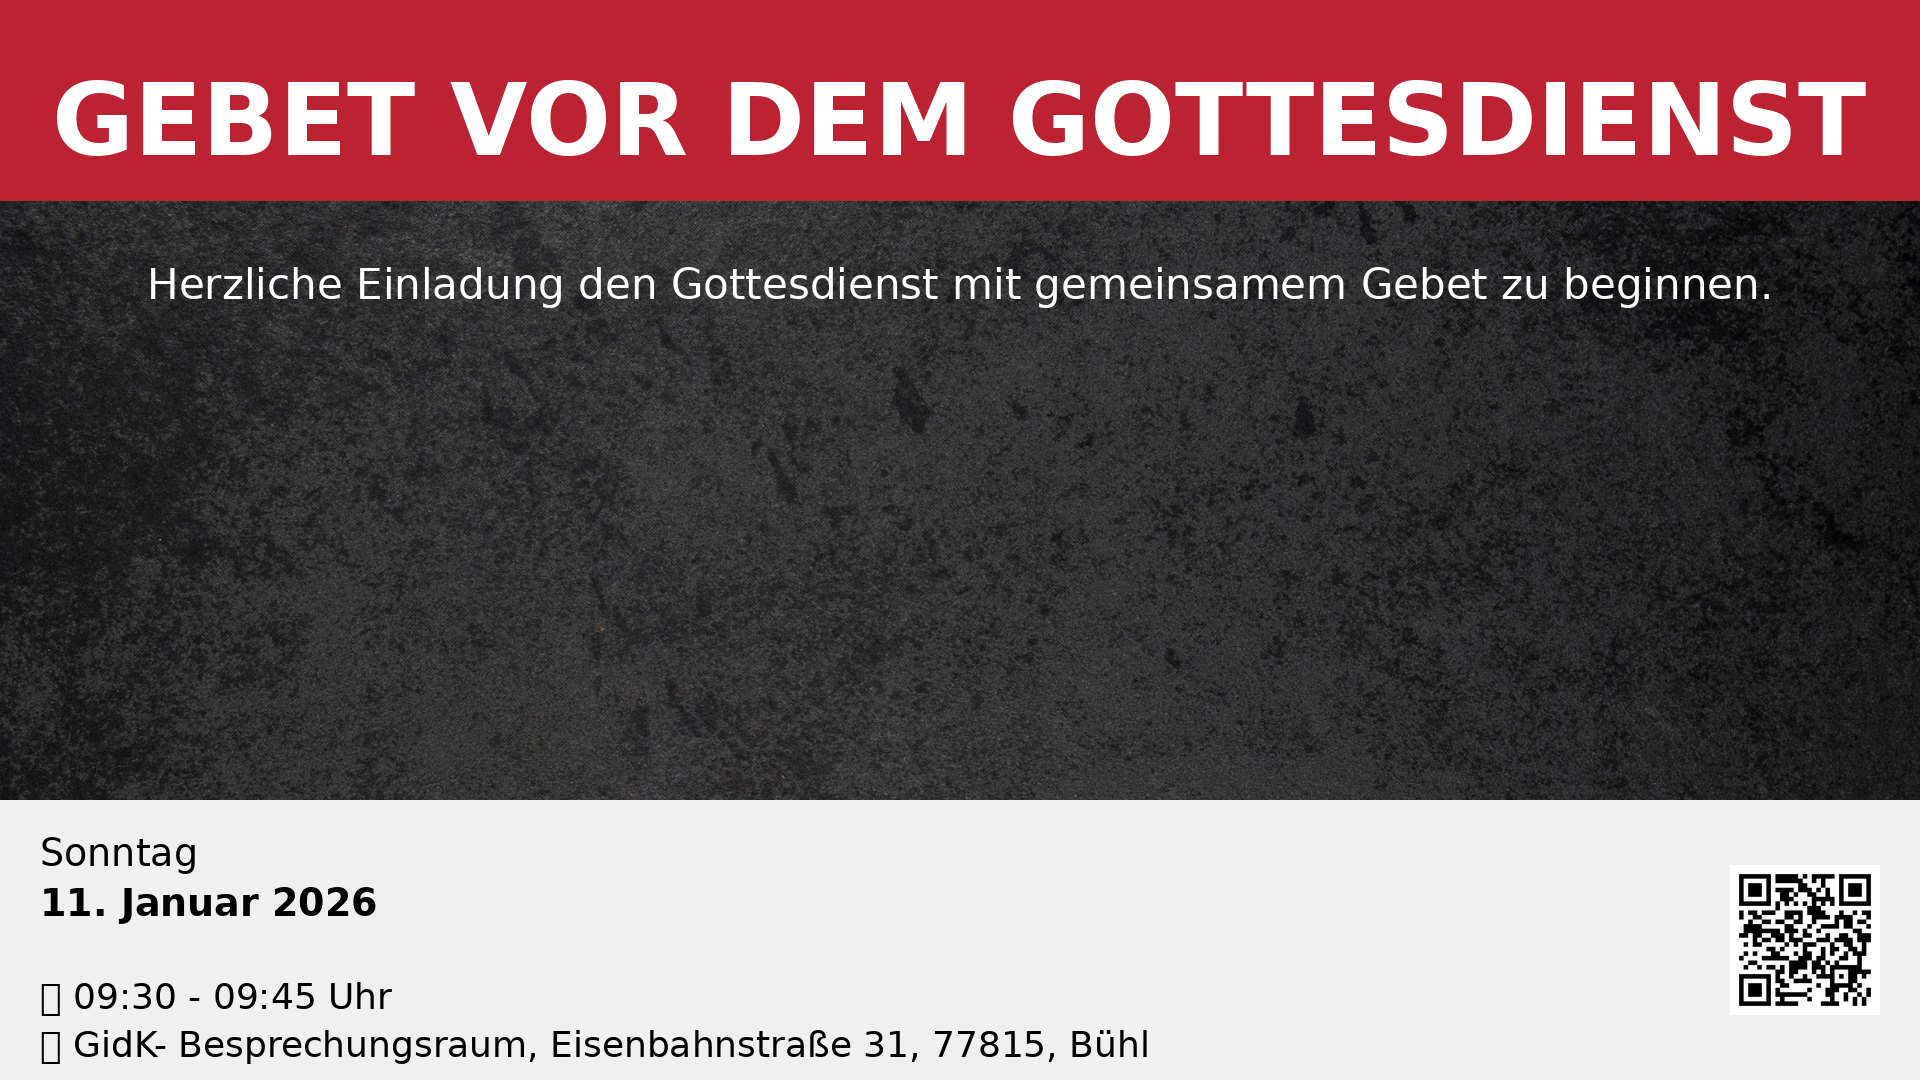
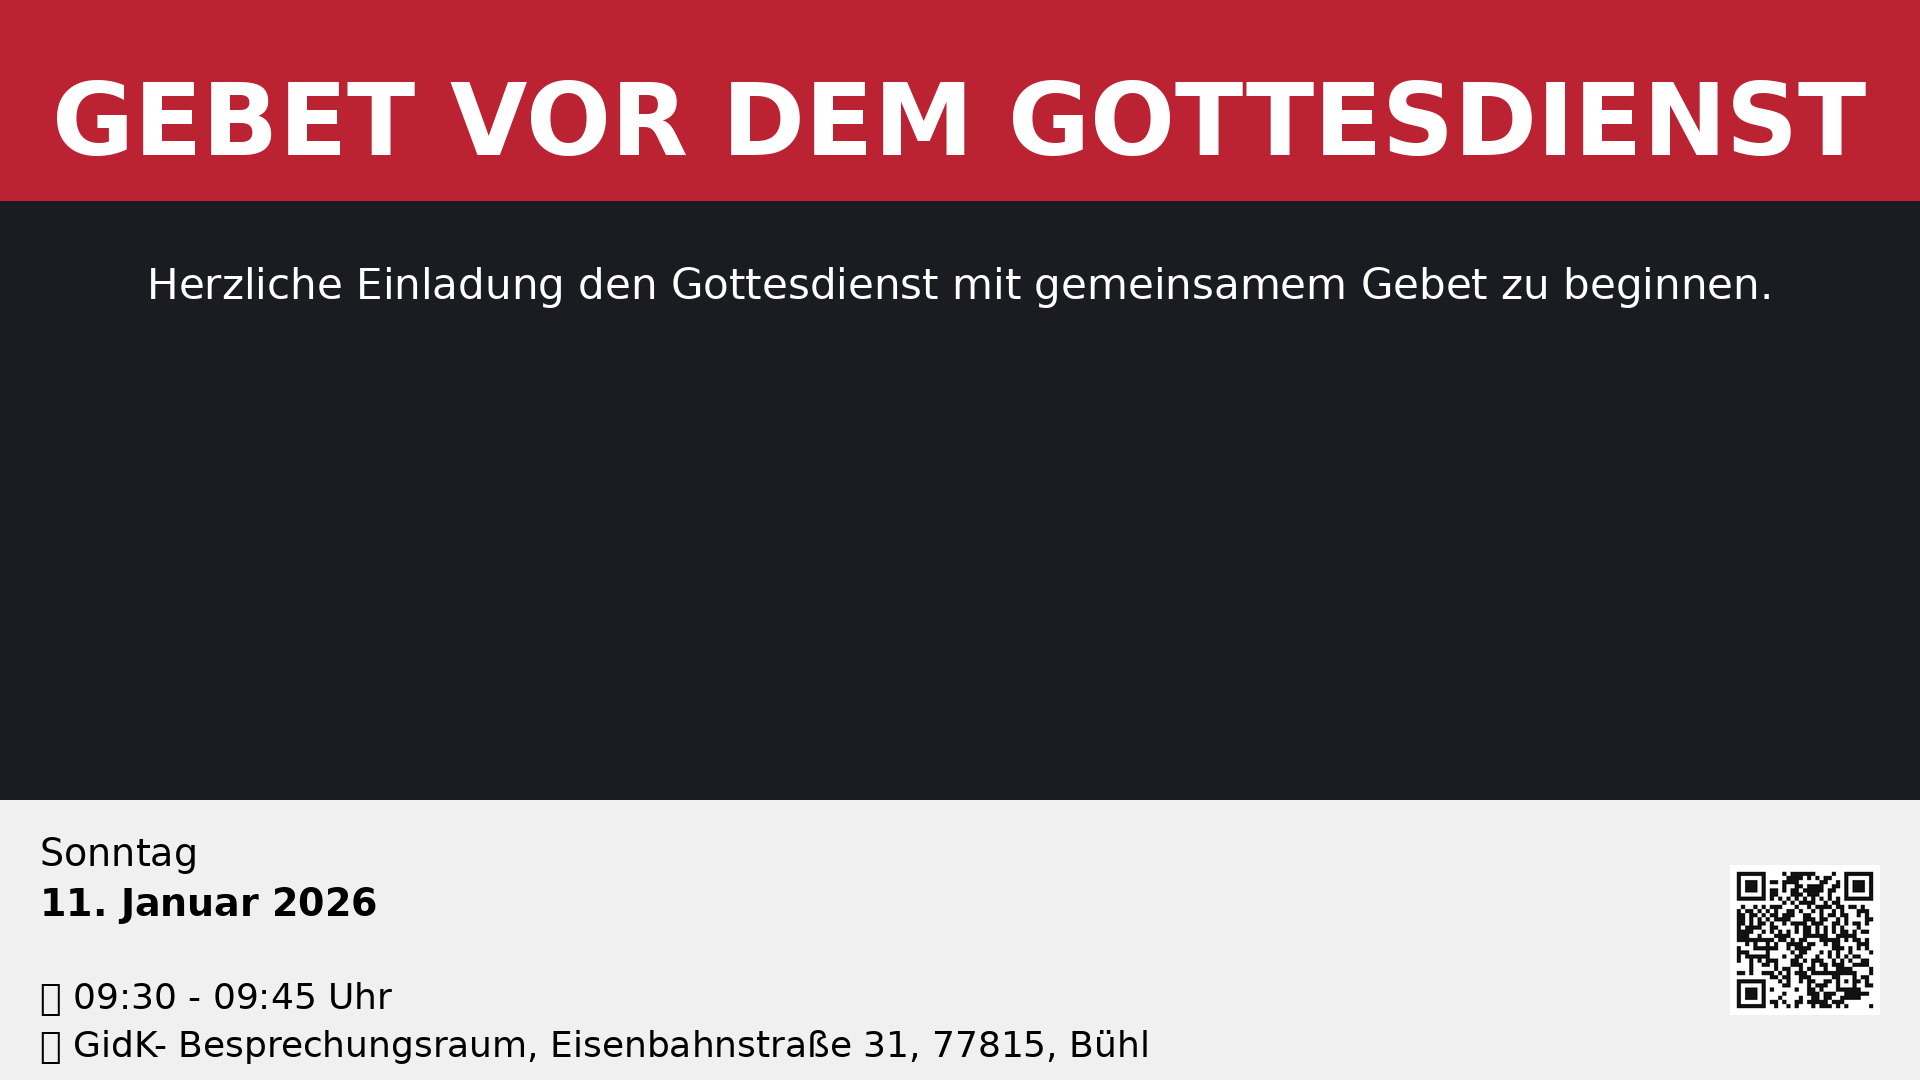
🎨 QR-Code-Integration: QR_Folien.jpg implementiert
✨ Änderungen:
- QR_Folien.jpg als primärer QR-Code verwenden
- Generator lädt QR_Folien.jpg vom Repository-Root
- 3-stufiger Fallback: QR_Folien.jpg → URL → Generieren

📦 Anpassungen:
- Config.QR_CODE_LOCAL = "QR_Folien.jpg" hinzugefügt
- _load_qr_code() Priorität geändert (lokal zuerst)
- Alle 21 Folien mit korrektem QR-Code regeneriert

🔧 Verbesserungen:
- QR-Code wird priorisiert lokal geladen (schneller)
- Kein assets/ Verzeichnis mehr benötigt
- QR_Folien.jpg im Repository-Root

diff --git a/src/generator.py b/src/generator.py
@@ -36,6 +36,7 @@ class Config:
     # Assets
     HINTERGRUND_URL = "https://storage2.snappages.site/S74RKH/assets/files/hintergrund_Termine.jpg"
     QR_CODE_URL = "https://storage2.snappages.site/S74RKH/assets/files/QR_news.png"
+    QR_CODE_LOCAL = "QR_Folien.jpg"  # Lokaler QR-Code
 
     # Layout
     WIDTH = 1920
@@ -125,7 +126,21 @@ class AssetManager:
 
     def _load_qr_code(self):
         """Lädt oder generiert QR-Code"""
-        # Versuche zuerst von URL zu laden
+        # Versuche zuerst lokalen QR_Folien.jpg zu laden
+        local_qr_path = Path(Config.QR_CODE_LOCAL)
+        if local_qr_path.exists():
+            try:
+                logger.info(f"Lade lokalen QR-Code von {local_qr_path}")
+                self.qr_code = Image.open(local_qr_path)
+                self.qr_code = self.qr_code.resize((Config.QR_SIZE, Config.QR_SIZE), Image.Resampling.LANCZOS)
+                if self.qr_code.mode != 'RGBA':
+                    self.qr_code = self.qr_code.convert('RGBA')
+                logger.info("Lokaler QR-Code erfolgreich geladen")
+                return
+            except Exception as e:
+                logger.warning(f"Fehler beim Laden des lokalen QR-Codes: {e}")
+
+        # Fallback: Versuche von URL zu laden
         try:
             logger.info(f"Lade QR-Code von {Config.QR_CODE_URL}")
             response = requests.get(Config.QR_CODE_URL, timeout=10)
@@ -139,21 +154,7 @@ class AssetManager:
         except Exception as e:
             logger.warning(f"Fehler beim Laden des QR-Codes: {e}")
 
-        # Versuche lokalen QR-Code zu laden
-        local_qr_path = Path("assets/QR_news.png")
-        if local_qr_path.exists():
-            try:
-                logger.info(f"Lade lokalen QR-Code von {local_qr_path}")
-                self.qr_code = Image.open(local_qr_path)
-                self.qr_code = self.qr_code.resize((Config.QR_SIZE, Config.QR_SIZE), Image.Resampling.LANCZOS)
-                if self.qr_code.mode != 'RGBA':
-                    self.qr_code = self.qr_code.convert('RGBA')
-                logger.info("Lokaler QR-Code erfolgreich geladen")
-                return
-            except Exception as e:
-                logger.warning(f"Fehler beim Laden des lokalen QR-Codes: {e}")
-
-        # Generiere QR-Code
+        # Fallback: Generiere QR-Code
         try:
             logger.info("Generiere QR-Code für Gemeinde-Website")
             qr = qrcode.QRCode(
@@ -170,10 +171,7 @@ class AssetManager:
             qr_img = qr_img.convert('RGBA')
             self.qr_code = qr_img.resize((Config.QR_SIZE, Config.QR_SIZE), Image.Resampling.LANCZOS)
 
-            # Speichere generierten QR-Code für zukünftige Verwendung
-            local_qr_path.parent.mkdir(exist_ok=True)
-            qr_img.save(local_qr_path, 'PNG')
-            logger.info("QR-Code erfolgreich generiert und gespeichert")
+            logger.info("QR-Code erfolgreich generiert")
         except Exception as e:
             logger.error(f"Fehler beim Generieren des QR-Codes: {e}")
             self.qr_code = None
